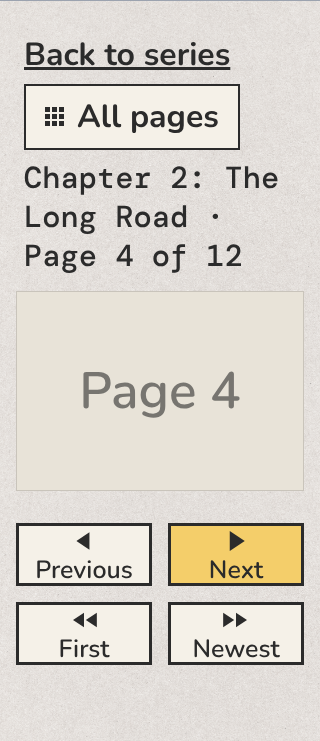
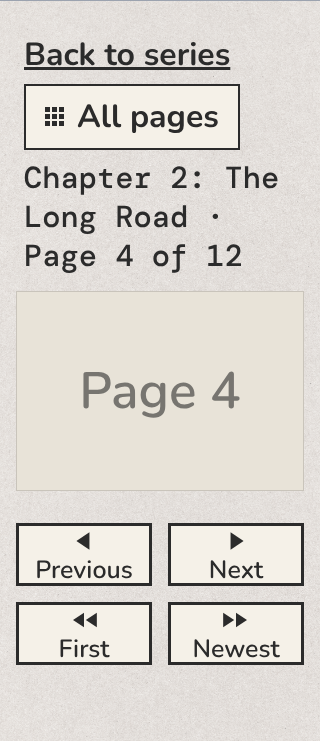
Reader design: Next looks like the other controls
At the lead's review: the same width and colour as First, Previous and
Newest, not wider and yellow. The play-controls story is amended to match;
mock-ups re-rendered.

Claude-Session: https://claude.ai/code/session_01HWRLNSVAoX5Ni8d8XcwJh1

Changed region(s): [[0.5312, 0.6829, 0.9375, 0.807]]

diff --git a/docs/design/mockups/comic-sheet-and-controls/mockups.html b/docs/design/mockups/comic-sheet-and-controls/mockups.html
@@ -44,13 +44,11 @@
   .wide .page { width: 440px; height: 620px; }
 
   /* Player-style controls */
-  .controls { display: grid; grid-template-columns: 1fr 1fr 1.6fr 1fr; gap: .5rem; max-width: 640px; margin: 1rem auto 0; }
+  .controls { display: grid; grid-template-columns: repeat(4, 1fr); gap: .5rem; max-width: 640px; margin: 1rem auto 0; }
   .ctl { min-height: 56px; border: 3px solid var(--ink); background: var(--beige); color: var(--ink); text-decoration: none;
     display: flex; flex-direction: column; align-items: center; justify-content: center; gap: 2px; position: relative; }
   .ctl .sym { display: flex; align-items: center; justify-content: center; height: 30px; line-height: 0; }
   .ctl .cap { font: 600 .78rem/1 'Nunito', sans-serif; }
-  .ctl.next { background: var(--yellow); }
-  .ctl.next .sym svg { width: 30px; height: 30px; }
   /* With enlarged text on a narrow phone, the row wraps to two by two: Previous | Next, then First | Newest. */
   .controls.wrapped { grid-template-columns: 1fr 1fr; }
   .controls.wrapped .ctl:nth-child(1) { order: 3; } .controls.wrapped .ctl:nth-child(2) { order: 1; }

diff --git a/docs/design/comic-sheet-and-controls.md b/docs/design/comic-sheet-and-controls.md
@@ -3,7 +3,7 @@ id: design-comic-sheet-and-controls
 status: draft
 derived-from:
   - story-comic-reader-contact-sheet: 7f9684183ed2
-  - story-comic-reader-play-controls: 7d9e07932238
+  - story-comic-reader-play-controls: 62a27f4a8594
   - design-comic-turn-pages#layout: a26d566f95d8
   - design-comic-turn-pages#states-and-errors: d45ab0902ca3
   - design-comic-start-reading#page-addresses: 108059c3ef86
@@ -68,7 +68,7 @@ Built to match the reader as it is: its fonts, colours, borders and reader bar. 
 - When the captions don't fit on one row (enlarged text on a narrow phone), the row wraps to two by two, with the ones used most on top: **Previous** and **Next**, then **First** and **Newest** (mock-up 7). Nothing is shortened or hidden.
 - The reader page leaves room for the bar, with **All pages**, and the controls: on a 360 × 640 phone, the page and the controls both fit on the first screen.
 - Each control is a bordered box at least 56 px tall, with a drawn arrowhead icon above a short caption: two arrowheads pointing left for **First**, one for **Previous**, one pointing right for **Next**, two for **Newest**, as Star asked. The icons are drawn (SVG), not typed characters, because phones draw characters like ⏭ as colourful emoji of their own.
-- **Next** is the widest (1.6 times the others) and yellow, as **Next page** was, because it's used most. The others are beige.
+- All four look the same: the same width, the same beige, and icons of the same size (lead, 2026-11-02). **Next** is told apart by its icon and caption, not by its size or colour.
 - The captions are always visible, on phones too, where there's no hovering: "First", "Previous", "Next", "Newest" (or "Last"). On hover or keyboard focus, the full name shows in a small label above the control, where it never covers the end note: "First page of the series", "Previous page", "Next page", "Newest page of the series" (or "Last page of the series") (mock-up 4). The full names say "of the series" because, beside "Chapter 4 · Page 3 of 6", "First" alone could mean the chapter's first page. The icons are all the same height, so the captions line up.
 - A control that can't be used stays in its place, with a dashed, faded border and faded icon, so the others never move (mock-ups 2 and 3).
 - On wide screens, the quiet arrows at the page's left and right edges stay, for **Previous** and **Next** (design-comic-turn-pages).
@@ -117,7 +117,7 @@ Built to match the reader as it is: its fonts, colours, borders and reader bar. 
 ## For the spec to check
 
 - Every reader page has its sheet at `<page address>/pages`, built ahead of time, with its tab title and a request not to be listed by search engines; a chapter with one page has none.
-- The controls' order, names, captions (**Last** on a complete series), icons (SVG, hidden from screen readers), the full-name label on hover and focus, **Next**'s width and colour, sizes, the two-by-two wrap, and the unusable states (links without an address, `role="link"`, `aria-disabled`, same place); no controls on a one-page series.
+- The controls' order, names, captions (**Last** on a complete series), icons (SVG, hidden from screen readers), the full-name label on hover and focus, the four being the same width and colour, sizes, the two-by-two wrap, and the unusable states (links without an address, `role="link"`, `aria-disabled`, same place); no controls on a one-page series.
 - On a 360 × 640 phone, the controls are on the first screen with the page.
 - **First** and **Newest** go to the series' first and newest pages, skipping empty chapters. Home and End are not used.
 - On the sheet: the order, numbers, the marked picture ("You were here" in its name), the scroll position, **← Back to page N** above and under the pictures, picture sizes (small images, loaded lazily, with their boxes sized), three a row on a 360 or 390 px phone, link names with alt text, the heading for a series without chapter names.
@@ -125,9 +125,10 @@ Built to match the reader as it is: its fonts, colours, borders and reader bar. 
 
 ## Decisions at review
 
-The lead decided two questions the walkthrough raised (2026-11-02):
+The lead decided these at review (2026-11-02); the first two came from the walkthrough:
 1. **Home and End:** not used. They keep their usual scrolling, because a keyboard user pressing End to reach the controls would otherwise jump to the newest page and could spoil the story. The play-controls story is amended to match.
 2. **A complete series:** the double-right control reads **Last** ("Last page of the series"), not **Newest**, which would promise new pages.
+3. **Next looks like the others:** the same width and colour as the other three, not wider and yellow. The play-controls story is amended to match.
 
 ## Persona walkthrough
 

diff --git a/docs/product/stories/comic-reader/play-controls.md b/docs/product/stories/comic-reader/play-controls.md
@@ -25,6 +25,6 @@ As a fan, I want the reader's page buttons to work like a media player's (one ar
 - ⏮ opens the first page of the series (page 1 of its first chapter with pages). ⏭ opens the series' newest page (the last page of its last chapter with pages).
 - Each control has a name for screen readers and a visible label on hover and keyboard focus: "First page of the series", "Previous page", "Next page", "Newest page of the series". On a complete series, newest page is called last page ("Last page of the series"), so it doesn't promise new pages (lead, 2026-11-02).
 - The controls keep their positions on every page. On the first page of the series, ⏮ and ◀ can't be used; on the newest page, ▶ and ⏭ can't be used, and "You're all caught up" and **Back to series** show as now. A control that can't be used looks it, and says so to screen readers.
-- Each control is at least 48 pixels tall and wide on a phone, with ▶ the most prominent, since it's used most.
+- Each control is at least 48 pixels tall and wide on a phone. All four look alike, the same size and colour (lead, 2026-11-02).
 - Swiping and the left and right arrow keys work as now. The Home and End keys keep their usual scrolling (lead, 2026-11-02).
 - The controls are links, like the buttons they replace, so they work without scripts and each has its own address.
